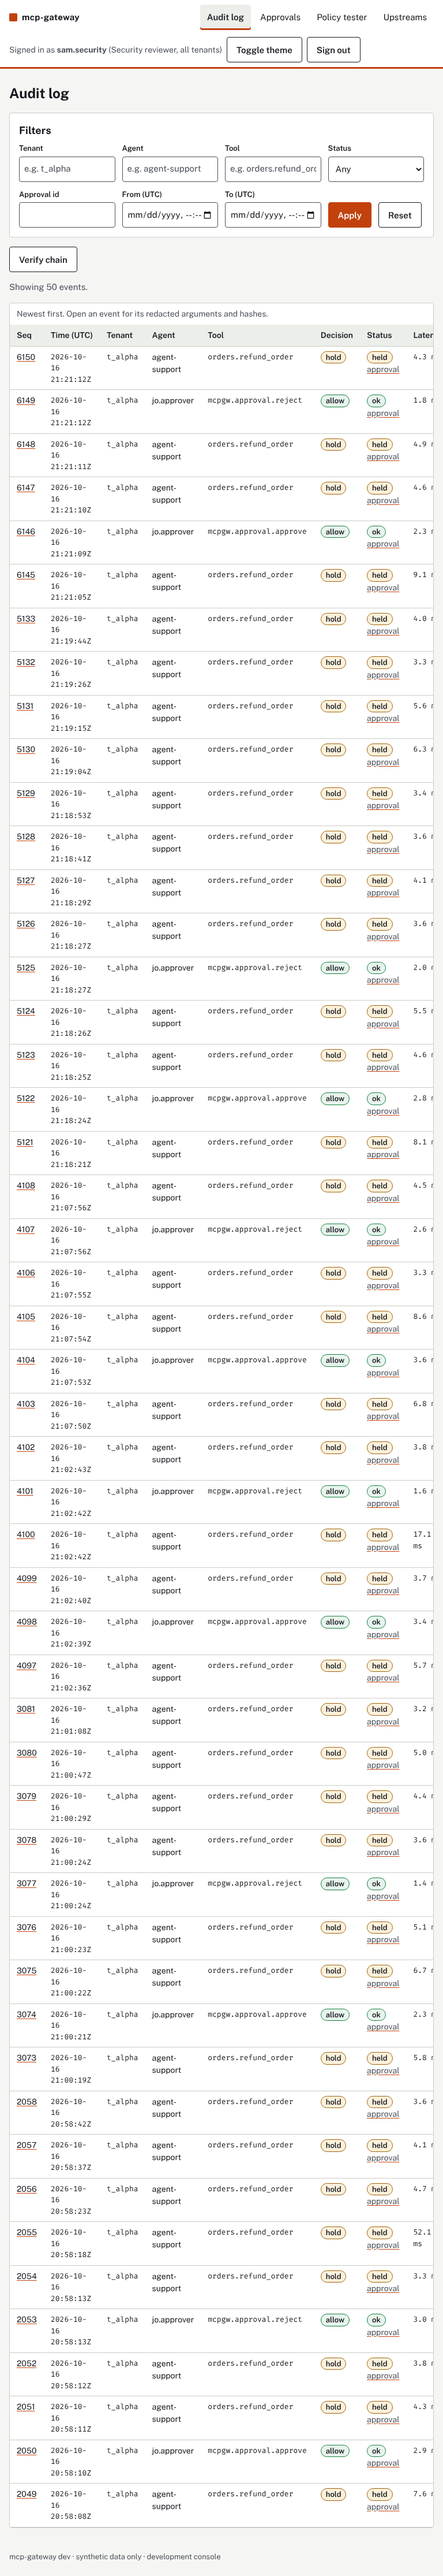
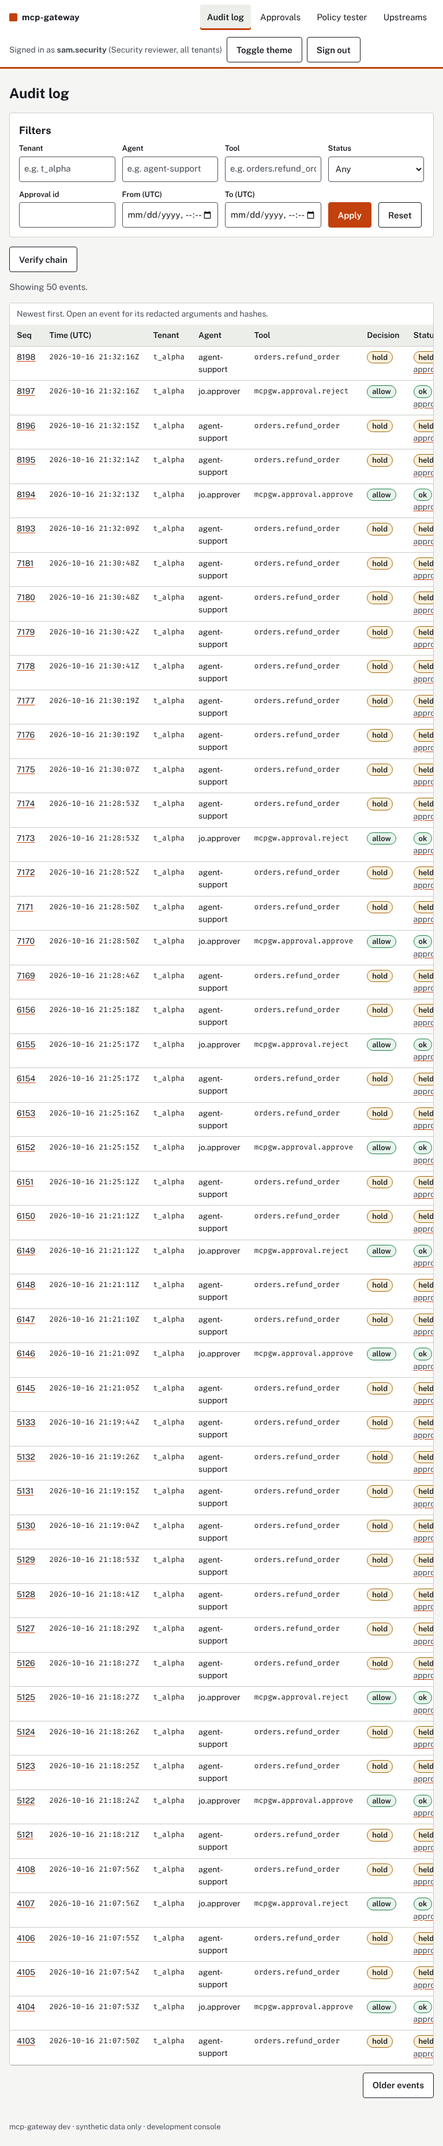
fix(console): stacked list rows on mobile and visible untrusted chip
Below 768 px the audit, approvals and upstreams tables stack each row as
a labelled card, so no column needs a sideways scroll; the untrusted
output chip sits above the upstreams table. The scope test now covers
POSTs and navigation; filter tabs meet the 44 px target. Screenshots
regenerated at 375, 768 and 1280 px. M4 recorded as reviewed.

diff --git a/internal/console/templates/audit.html b/internal/console/templates/audit.html
@@ -18,20 +18,20 @@
 {{if .Data.ListFailed}}{{else if .Data.Page.Events}}
 <p class="muted">Showing {{len .Data.Page.Events}} events{{if .Data.Filters.cursor}} older than the previous page (<a href="/console/audit">newest</a>){{end}}.</p>
 <div class="table-wrap" tabindex="0" role="region" aria-label="Audit events table">
-<table>
+<table class="cards" role="table">
   <caption class="muted">Newest first. Open an event for its redacted arguments and hashes.</caption>
-  <thead><tr><th scope="col">Seq</th><th scope="col">Time (UTC)</th><th scope="col">Tenant</th><th scope="col" class="hide-sm">Agent</th><th scope="col">Tool</th><th scope="col">Decision</th><th scope="col">Status</th><th scope="col" class="hide-sm">Latency</th></tr></thead>
-  <tbody>
+  <thead role="rowgroup"><tr role="row"><th scope="col" role="columnheader">Seq</th><th scope="col" role="columnheader">Time (UTC)</th><th scope="col" role="columnheader">Tenant</th><th scope="col" role="columnheader">Agent</th><th scope="col" role="columnheader">Tool</th><th scope="col" role="columnheader">Decision</th><th scope="col" role="columnheader">Status</th><th scope="col" role="columnheader">Latency</th></tr></thead>
+  <tbody role="rowgroup">
   {{range .Data.Page.Events}}
-  <tr class="row">
-    <td><a href="/console/audit/{{.Seq}}"><span class="sr-only">Event </span>{{.Seq}}</a></td>
-    <td class="mono">{{ts .TS}}</td>
-    <td class="mono">{{.Tenant}}</td>
-    <td class="hide-sm">{{.Agent}}</td>
-    <td class="mono">{{.Server}}.{{.Tool}}</td>
-    <td><span class="status {{.Decision}}">{{decisionLabel .Decision}}</span></td>
-    <td><span class="status {{.Status}}">{{.Status}}</span>{{if .ApprovalID}} <a href="/console/approvals/{{deref .ApprovalID}}" class="muted">approval<span class="sr-only"> for event {{.Seq}}</span></a>{{end}}</td>
-    <td class="hide-sm mono">{{printf "%.1f" .LatencyMS}} ms</td>
+  <tr class="row" role="row">
+    <td role="cell" data-label="Seq"><a href="/console/audit/{{.Seq}}"><span class="sr-only">Event </span>{{.Seq}}</a></td>
+    <td role="cell" data-label="Time (UTC)" class="mono nowrap">{{ts .TS}}</td>
+    <td role="cell" data-label="Tenant" class="mono">{{.Tenant}}</td>
+    <td role="cell" data-label="Agent">{{.Agent}}</td>
+    <td role="cell" data-label="Tool" class="mono">{{.Server}}.{{.Tool}}</td>
+    <td role="cell" data-label="Decision"><span class="status {{.Decision}}">{{decisionLabel .Decision}}</span></td>
+    <td role="cell" data-label="Status"><span class="status {{.Status}}">{{.Status}}</span>{{if .ApprovalID}} <a href="/console/approvals/{{deref .ApprovalID}}" class="muted">approval<span class="sr-only"> for event {{.Seq}}</span></a>{{end}}</td>
+    <td role="cell" data-label="Latency" class="mono">{{printf "%.1f" .LatencyMS}} ms</td>
   </tr>
   {{end}}
   </tbody>

diff --git a/internal/console/templates/upstreams.html b/internal/console/templates/upstreams.html
@@ -1,19 +1,20 @@
 {{define "content"}}
 <h1>Upstreams</h1>
 {{if .Error}}{{else if .Data}}
+<p>Tool names and errors below are reported by the upstreams themselves <span class="chip">untrusted output</span></p>
 <div class="table-wrap" tabindex="0" role="region" aria-label="Upstreams table">
-<table>
-  <caption class="muted">Health comes from the last catalog refresh; an open breaker stops calls until a probe succeeds. Tool names and errors are reported by the upstreams <span class="chip">untrusted output</span></caption>
-  <thead><tr><th scope="col">Name</th><th scope="col">Health</th><th scope="col">Breaker</th><th scope="col">Tools</th><th scope="col" class="hide-sm">URL</th><th scope="col">Last refresh (UTC)</th></tr></thead>
-  <tbody>
+<table class="cards" role="table">
+  <caption class="muted">Health comes from the last catalog refresh; an open breaker stops calls until a probe succeeds.</caption>
+  <thead role="rowgroup"><tr role="row"><th scope="col" role="columnheader">Name</th><th scope="col" role="columnheader">Health</th><th scope="col" role="columnheader">Breaker</th><th scope="col" role="columnheader">Tools</th><th scope="col" role="columnheader">URL</th><th scope="col" role="columnheader">Last refresh (UTC)</th></tr></thead>
+  <tbody role="rowgroup">
   {{range .Data}}
-  <tr class="row">
-    <td class="mono">{{.Name}}</td>
-    <td>{{if .Up}}<span class="status up">up</span>{{else}}<span class="status down">down</span>{{end}}{{if .LastError}}<div class="muted"><span class="chip">untrusted output</span> {{.LastError}}</div>{{end}}</td>
-    <td><span class="status {{.Breaker}}">{{.Breaker}}</span></td>
-    <td>{{if .Tools}}<ul class="rules">{{range .Tools}}<li class="mono">{{.}}</li>{{end}}</ul>{{else}}<span class="muted">none</span>{{end}}</td>
-    <td class="hide-sm mono">{{.URL}}</td>
-    <td class="mono">{{ts .LastRefresh}}</td>
+  <tr class="row" role="row">
+    <td role="cell" data-label="Name" class="mono">{{.Name}}</td>
+    <td role="cell" data-label="Health">{{if .Up}}<span class="status up">up</span>{{else}}<span class="status down">down</span>{{end}}{{if .LastError}}<div class="muted"><span class="chip">untrusted output</span> {{.LastError}}</div>{{end}}</td>
+    <td role="cell" data-label="Breaker"><span class="status {{.Breaker}}">{{.Breaker}}</span></td>
+    <td role="cell" data-label="Tools">{{if .Tools}}<ul class="rules">{{range .Tools}}<li class="mono">{{.}}</li>{{end}}</ul>{{else}}<span class="muted">none</span>{{end}}</td>
+    <td role="cell" data-label="URL" class="mono">{{.URL}}</td>
+    <td role="cell" data-label="Last refresh (UTC)" class="mono">{{ts .LastRefresh}}</td>
   </tr>
   {{end}}
   </tbody>

diff --git a/internal/console/templates/approvals.html b/internal/console/templates/approvals.html
@@ -7,20 +7,20 @@
 </nav>
 {{if .Error}}{{else if .Data.Approvals}}
 <div class="table-wrap" tabindex="0" role="region" aria-label="Approvals table">
-<table>
+<table class="cards" role="table">
   <caption class="muted">Held tool calls wait here until an approver of their tenant decides or they expire. Soonest expiry first.</caption>
-  <thead><tr><th scope="col">Tool</th><th scope="col">Tenant</th><th scope="col" class="hide-sm">Agent</th><th scope="col">Reasons</th><th scope="col" class="hide-sm">Args hash</th><th scope="col">Expires</th><th scope="col">Status</th><th scope="col"><span class="sr-only">Open</span></th></tr></thead>
-  <tbody>
+  <thead role="rowgroup"><tr role="row"><th scope="col" role="columnheader">Tool</th><th scope="col" role="columnheader">Tenant</th><th scope="col" role="columnheader">Agent</th><th scope="col" role="columnheader">Reasons</th><th scope="col" role="columnheader">Args hash</th><th scope="col" role="columnheader">Expires</th><th scope="col" role="columnheader">Status</th><th scope="col" role="columnheader"><span class="sr-only">Open</span></th></tr></thead>
+  <tbody role="rowgroup">
   {{range .Data.Approvals}}
-  <tr class="row">
-    <td class="mono">{{.Server}}.{{.Tool}}</td>
-    <td class="mono">{{.Tenant}}</td>
-    <td class="hide-sm">{{.Agent}}</td>
-    <td>{{range $i, $r := .Reasons}}{{if $i}}, {{end}}<span class="mono">{{$r}}</span>{{end}}</td>
-    <td class="hide-sm mono">{{short .ArgsSHA256}}</td>
-    <td>{{.ExpiresIn}}</td>
-    <td><span class="status {{.Status}}">{{.Status}}</span></td>
-    <td><a href="/console/approvals/{{.ID}}">Review<span class="sr-only"> approval {{.ID}}</span></a></td>
+  <tr class="row" role="row">
+    <td role="cell" data-label="Tool" class="mono">{{.Server}}.{{.Tool}}</td>
+    <td role="cell" data-label="Tenant" class="mono">{{.Tenant}}</td>
+    <td role="cell" data-label="Agent">{{.Agent}}</td>
+    <td role="cell" data-label="Reasons">{{range $i, $r := .Reasons}}{{if $i}}, {{end}}<span class="mono">{{$r}}</span>{{end}}</td>
+    <td role="cell" data-label="Args hash" class="mono">{{short .ArgsSHA256}}</td>
+    <td role="cell" data-label="Expires">{{.ExpiresIn}}</td>
+    <td role="cell" data-label="Status"><span class="status {{.Status}}">{{.Status}}</span></td>
+    <td role="cell" data-label="Open"><a href="/console/approvals/{{.ID}}">Review<span class="sr-only"> approval {{.ID}}</span></a></td>
   </tr>
   {{end}}
   </tbody>

diff --git a/internal/console/static/console.css b/internal/console/static/console.css
@@ -84,3 +84,13 @@ textarea.code { min-height: 280px; font-family: var(--font-mono); font-size: 0.8
 .loading { margin: 0 0 var(--space-3); font-weight: 600; }
 .status.replayed, .status.closed { border-color: var(--ink-muted); background: var(--surface-2); }
 .banner.warn { border-left-color: var(--hold); background: var(--hold-bg); }
+.nowrap { white-space: nowrap; }
+/* Below 768 px list tables stack every row as a labelled card, so no column needs a sideways scroll. */
+@media (max-width: 767px) {
+  table.cards thead { position: absolute; width: 1px; height: 1px; overflow: hidden; clip: rect(0 0 0 0); }
+  table.cards, table.cards tbody, table.cards tr, table.cards td, table.cards caption { display: block; width: 100%; }
+  table.cards tr { border-bottom: 1px solid var(--line); padding: var(--space-2) 0; }
+  table.cards td { display: grid; grid-template-columns: 7.5rem minmax(0, 1fr); gap: var(--space-2); border: 0; padding: var(--space-1) var(--space-3); overflow-wrap: anywhere; }
+  table.cards td::before { content: attr(data-label); font-weight: 600; color: var(--ink-muted); }
+}
+.tabs a { min-height: 44px; display: inline-flex; align-items: center; }

diff --git a/e2e/tests/console.spec.ts b/e2e/tests/console.spec.ts
@@ -86,3 +86,22 @@ test("empty state explains what to do", async ({ page }) => {
   await expect(page.getByText("No audit events match these filters.")).toBeVisible();
   await expectAccessible(page);
 });
+
+test.describe("375px lists", () => {
+  test.use({ viewport: { width: 375, height: 900 } });
+
+  // Rows stack as labelled cards: no list table overflows sideways, and the chip is on screen.
+  test("every list column is visible without horizontal scrolling", async ({ page }) => {
+    const noSidewaysScroll = async () => {
+      const overflow = await page.locator(".table-wrap").evaluate((el) => el.scrollWidth - el.clientWidth);
+      expect(overflow).toBeLessThanOrEqual(0);
+    };
+    await holdRefund();
+    await signIn(page, "approver");
+    for (const path of ["/console/approvals", "/console/audit", "/console/upstreams"]) {
+      await page.goto(path);
+      await noSidewaysScroll();
+    }
+    await expect(page.locator("main .chip", { hasText: "untrusted output" }).first()).toBeInViewport();
+  });
+});

diff --git a/internal/console/console_test.go b/internal/console/console_test.go
@@ -265,11 +265,23 @@ func TestConsoleRequiresScope(t *testing.T) {
 			t.Fatalf("%s without scope: %d", path, resp.StatusCode)
 		}
 	}
+	_, page := get(t, c, e.srv.URL+"/console/audit")
+	csrf := csrfOf(t, page)
+	for _, path := range []string{"/console/policy", "/console/approvals/00000000-0000-4000-8000-000000000001/approve"} {
+		if resp, _ := post(t, c, e.srv.URL+path, url.Values{"csrf": {csrf}, "input": {"{}"}}); resp.StatusCode != http.StatusForbidden {
+			t.Fatalf("POST %s without scope: %d", path, resp.StatusCode)
+		}
+	}
+	if strings.Contains(page, `href="/console/audit"`) || strings.Contains(page, `href="/console/approvals"`) {
+		t.Fatalf("navigation lists pages the persona cannot open: %s", page)
+	}
 	approver := client(t)
 	signIn(t, e, approver, "approver")
 	_, body := get(t, approver, e.srv.URL+"/console/approvals")
-	if strings.Contains(body, `href="/console/upstreams"`) == false || !strings.Contains(body, `href="/console/approvals"`) {
-		t.Fatalf("approver navigation: %s", body)
+	for _, link := range []string{`href="/console/audit"`, `href="/console/approvals"`, `href="/console/policy"`, `href="/console/upstreams"`} {
+		if !strings.Contains(body, link) {
+			t.Fatalf("approver navigation lacks %s", link)
+		}
 	}
 }
 

diff --git a/PROGRESS.md b/PROGRESS.md
@@ -22,9 +22,9 @@ chore: configure commit attribution
 
 ## Resume here (handoff, 2026-10-16)
 
-**State:** T-01..T-32 done and pushed on `claude/build-md-execution-blkq3q`. Milestones M0-M3 reviewed "ship"; M4 (T-28..T-32) is complete and awaits its `reviewer` run. `make check-fast` is green; integration tests pass with Docker (testcontainers); `make e2e` passes on the compose stack (33 Playwright tests, axe clean).
+**State:** T-01..T-32 done and pushed on `claude/build-md-execution-blkq3q`. Milestones M0-M4 reviewed "ship"; M5 is in progress (T-33 done, T-34 eval runner in progress). `make check-fast` is green; integration tests pass with Docker (testcontainers); `make e2e` passes on the compose stack (33 Playwright tests, axe clean).
 
-**Next:** run the `reviewer` subagent (and `ux-reviewer`) on M4 (`git diff 0daa987..HEAD -- internal/console e2e docs/images`), fix blockers, then M5 starting with T-33 (eval datasets).
+**Next:** finish T-34 (`internal/evals`, `cmd/evalgen`): the first offline run fails the injection recall gate (dev 0.6667, test 0.5250 vs >= 0.80); tune the detector on dev only, never the threshold. Then T-35..T-36.
 
 **Start of a new session (Claude Code on the web):**
 
@@ -57,7 +57,7 @@ chore: configure commit attribution
 
 | Milestone | Reviewer verdict | Notes |
 |---|---|---|
-| M4 | pending | Run after T-32. |
+| M4 | ship (second pass; UX re-review blockers fixed after it) | Code review first pass "fix first": console pages checked only the session, not the admin API scopes (TestConsoleRequiresScope, GETs and POSTs), and upstream content lacked the untrusted-output chip (TestUpstreamsPage). UX review: 10 blockers fixed in 752aa56 (verify failure keeps the list, theme toggle state, hover and placeholder contrast, h1 on error pages, rendered CSRF/scope errors, execution summary, state gaps, separate approve/reject text); 2 mobile blockers fixed after: list tables stack as labelled cards below 768 px and the chip is above the upstreams table (e2e `375px lists`). Evidence: make check-fast; go test -race -tags=integration ./internal/console ./internal/admin ./internal/server ./internal/config; SCREENSHOTS=1 pnpm exec playwright test: 48 passed; BenchmarkAuditPage p95 14.71 ms (reviewer run). |
 | M3 | ship (third pass) | First pass "fix first": one hostile argument (integer beyond 2^53 or NUL) stalled the audit writer forever (now sanitised on write, unstorable batches bisected with a placeholder; TestAuditArgsAlwaysStorable, TestAuditWriterIsolatesUnstorableEvent, TestHostileArgsDoNotStopAudit, TestAuditUnstorableArgsPostgres); served `ts` not re-hashable (Event.MarshalJSON, TestAuditAPIEventsRehashable); approval_consumed never returned. Second pass: read-side sanitising hid tampering (lossless Normalize, TestAuditVerifyDetectsValueTampers). Suggestions applied: uuid lookups, outbox SKIP LOCKED lease, one pending approval per call (migration 00005), webhook secret length, verify limited to cross-tenant viewers, writer closed flag, dynamic audit WHERE, enqueue latency on thread CPU time plus wall p50. |
 | M2 | ship (third pass) | Blockers fixed with regression tests: `arguments: null` bypassed argument rules (TestNullArgumentsDoNotBypassArgumentRules), JWKS refresh blocked under a mutex (TestJWKSHungIssuerDoesNotBlock), cards followed by digits escaped redaction, reload failure undocumented (ADR 0002 + stale readiness), docs citing not-yet-built metrics reworded. |
 | M1 | ship (second pass) | First pass "fix first": concurrent refunds could exceed the order amount (snapshot taken before the row lock). Fixed by locking first and summing in a second statement; deterministic `TestInsertRefundSerialisesOnOrderLock` fails on the old SQL, passes now. Suggestions applied: I-JSON checks in canonicaljson, raw dedup results, goose advisory lock, password guards, narrower gateway env. |
